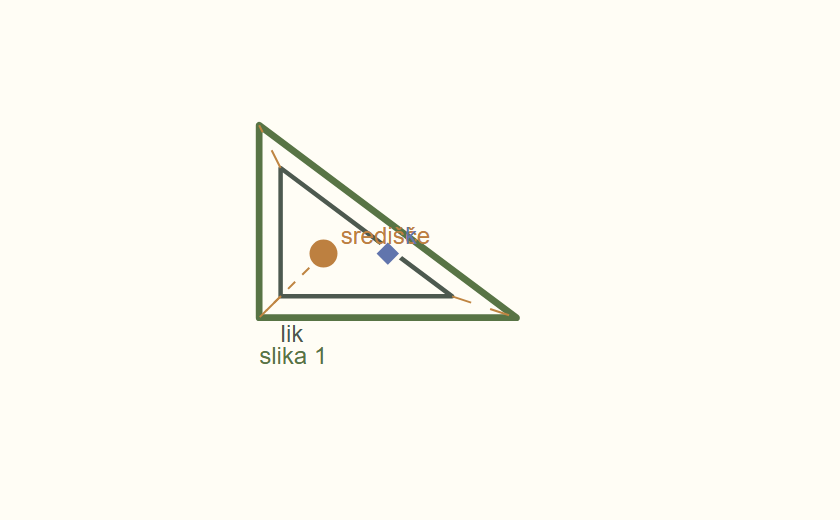
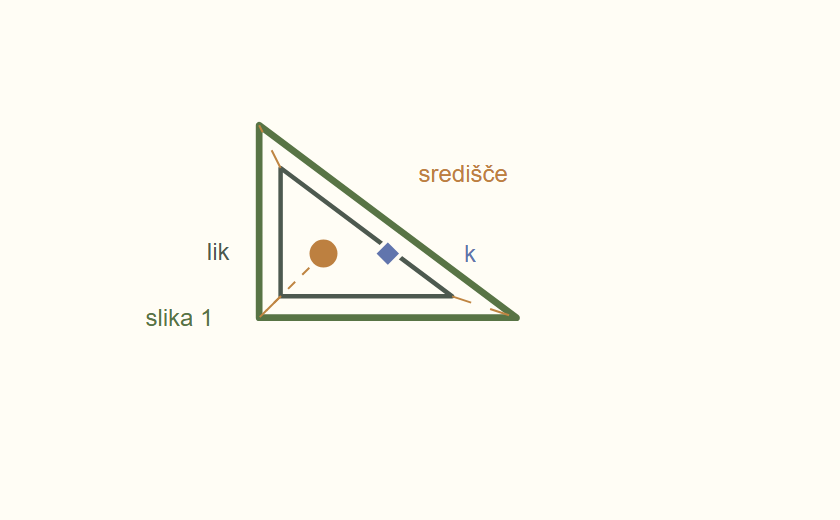
fix: isometry board texts stay clear of handles, images and each other
Captions, mirror, axis, centre and vector names and the handle names of the
isometry graph are placed by the shared bounded candidate search, with
alternative anchors along the mirrors; handles, markers, mirror lines and
curves are obstacles. The three isometries cards are recaptured.

Claude-Session: https://claude.ai/code/session_01UfEZWQEwZHrfX6P9MLA3xk

diff --git a/src/graphs/isometry/IsometryGraph.tsx b/src/graphs/isometry/IsometryGraph.tsx
@@ -28,6 +28,7 @@ import {Preset} from "../base/presets/Presets";
 import {isometryPresetCollection} from "./isometryPresetCollection";
 import type {IsometryClass} from "../../isometry/isometry2";
 import type {RosetteImage} from "../../isometry/rosette";
+import {placeLpLabels, sampleLine, type LabelItem, type PxBox} from "../legend/boardLabelPlacement";
 
 /** The scene state is the stored isometry state (ADR 0047 sections 1 to 3); everything else is derived from it. */
 export interface IsometryGraphState extends BaseGraphState, IsometryState {}
@@ -76,6 +77,8 @@ const pointText = (x: string, y: string): string => t("isometry_graph_point_form
 const ratPoint = (p: RationalPoint): string => pointText(rat(p.x), rat(p.y));
 const xyPoint = (x: number, y: number): string => pointText(dec(x), dec(y));
 const degrees = (radians: number): string => `${dec2((radians * 180) / Math.PI)}°`;
+/** The room a handle or marker takes beyond its size, in px, for the pixel placement of the board texts. */
+const MARKER_PAD_PX = 3;
 
 /** A line as text, for example `13 x = 25` or `6 x + 12 y = 66`. */
 function lineText(line: Line): string {
@@ -169,6 +172,9 @@ export class IsometryGraph extends BaseGraph<IsometryGraphState, IsometryState> 
     /** What the board was last drawn for; a sync that finds the same key redraws nothing but the handle positions. */
     private builtKey: string | undefined;
     private readonly status = new SettledReadout();
+    /** The board texts of the scene (see `labelBoxes`): what each says, the data points it may sit beside, and when it is shown. */
+    private captionList: Array<{id: string; text: () => string; anchors: () => ReadonlyArray<readonly [number, number]>; visible: () => boolean}> = [];
+    private layoutCache?: {key: string; state: Readonly<IsometryGraphState>; boxes: Record<string, PxBox>};
 
     override getInitialState(): IsometryGraphState {
         return {initialized: false, ...DEFAULT_ISOMETRY_STATE};
@@ -328,8 +334,59 @@ export class IsometryGraph extends BaseGraph<IsometryGraphState, IsometryState> 
         return d.mode === "mirrors" || d.mode === "classify" ? d.motion : undefined;
     }
 
+    /**
+     * The boxes (px from the board's top left corner, y down) of the board texts: each takes the free spot nearest to its anchor that clears the
+     * handles and markers, the drawn lines and curves and the texts placed before it (the bounded search of `placeLpLabels`).
+     */
+    private labelBoxes(): Record<string, PxBox> {
+        if (!this.hasBoard || !(this.board.canvasWidth > 0) || !(this.board.canvasHeight > 0)) return {};
+        const board = this.board;
+        const [left, top] = board.getBoundingBox();
+        const ux = Number.isFinite(board.unitX) && board.unitX > 0 ? board.unitX : 1;
+        const uy = Number.isFinite(board.unitY) && board.unitY > 0 ? board.unitY : 1;
+        const width = board.canvasWidth, height = board.canvasHeight;
+        const handles = [...this.handleMap.values()].map(h => `${h.X()},${h.Y()}`).join(";");
+        const key = [ux, uy, left, top, width, height, this.builtKey, this.objects.length, handles, currentLanguage()].join("|");
+        if (this.layoutCache?.key === key && this.layoutCache.state === this.state) return this.layoutCache.boxes;
+        const toPx = (x: number, y: number): readonly [number, number] => [(x - left) * ux, (top - y) * uy];
+        type Drawn = {elType: string; evalVisProp(name: string): unknown; dataX?: number[]; dataY?: number[]; updateDataArray?: () => void};
+        const shown = (this.objects as unknown as Drawn[]).filter(o => Boolean(o.evalVisProp("visible")));
+        const markers: Array<readonly [number, number, number]> = [];
+        const samples: Array<readonly [number, number]> = [];
+        for (const o of shown) {
+            if (o.elType === "point") {
+                const p = o as unknown as JXG.Point;
+                markers.push([...toPx(p.X(), p.Y()), Number(o.evalVisProp("size")) + MARKER_PAD_PX]);
+            } else if (o.elType === "curve") {
+                o.updateDataArray?.(); // a curve later in the list than the first text asking has not been updated yet
+                samples.push(...sampleLine(o.dataX ?? [], o.dataY ?? [], toPx, width, height, 2, 1500));
+            } else if (o.elType === "line" || o.elType === "segment" || o.elType === "arrow") {
+                const l = o as unknown as JXG.Line;
+                const [x0, y0, x1, y1] = [l.point1.X(), l.point1.Y(), l.point2.X(), l.point2.Y()];
+                const dx = x1 - x0, dy = y1 - y0, length = Math.hypot(dx, dy);
+                if (!(length > 0)) continue;
+                const reach = o.elType === "line" ? 60 / length : 1;
+                const from = o.elType === "line" ? -reach : 0;
+                samples.push(...sampleLine([x0 + dx * from, x0 + dx * reach], [y0 + dy * from, y0 + dy * reach], toPx, width, height, 2, 1500));
+            }
+        }
+        const items: LabelItem[] = [];
+        const font = board.unitX < 20 ? 12 : 15;
+        for (const c of this.captionList) {
+            if (!c.visible()) continue;
+            const text = c.text();
+            if (text === "") continue;
+            const [first, ...rest] = c.anchors().filter(a => Number.isFinite(a[0]) && Number.isFinite(a[1])).map(a => toPx(a[0], a[1]));
+            if (first) items.push({id: c.id, ax: first[0], ay: first[1], alts: rest, w: text.length * font * 0.55 + 8, h: font + 7});
+        }
+        const boxes = placeLpLabels(items, {width, height, markers, samples, strips: [], blocks: []});
+        this.layoutCache = {key, state: this.state, boxes};
+        return boxes;
+    }
+
     private buildScene(): void {
         this.disposeScene();
+        this.captionList = [];
         const board = this.board;
         const state = this.state;
         const mode = state.mode;
@@ -354,10 +411,25 @@ export class IsometryGraph extends BaseGraph<IsometryGraphState, IsometryState> 
             }));
         /** Captions shrink on a narrow board (few pixels per unit, read when the board is built) so they stay apart. */
         const captionFont = () => (board.unitX < 20 ? 12 : 15);
-        const caption = (text: string | (() => string), x: Coordinate, y: Coordinate, color: string, visible: Visible = true) =>
-            this.own(board.create("text", [x, y, text], {
-                strokeColor: color, fontSize: captionFont(), fixed: true, highlight: false, withLabel: false, visible,
+        type Anchors = () => ReadonlyArray<readonly [number, number]>;
+        /** A text sits at the centre of its placed box (see `labelBoxes`) beside the first of its anchors, or on it before the board has a size. */
+        const caption = (text: string | (() => string), anchors: Anchors, color: string, visible: Visible = true) => {
+            const id = `caption-${this.captionList.length}`;
+            const content = typeof text === "string" ? () => text : text;
+            this.captionList.push({id, text: content, anchors, visible: typeof visible === "function" ? visible : () => visible});
+            const place = (axis: 0 | 1) => () => {
+                const box = this.labelBoxes()[id];
+                if (!box) return anchors()[0]?.[axis] ?? 0;
+                const [left, top] = board.getBoundingBox();
+                return axis === 0 ? left + (box.x0 + box.x1) / 2 / board.unitX : top - (box.y0 + box.y1) / 2 / board.unitY;
+            };
+            return this.own(board.create("text", [place(0), place(1), content], {
+                strokeColor: color, fontSize: captionFont(), anchorX: "middle", anchorY: "middle", fixed: true, highlight: false, withLabel: false, visible,
             }));
+        };
+        const atPoint = (x: Coordinate, y: Coordinate): Anchors => () => [[typeof x === "function" ? x() : x, typeof y === "function" ? y() : y]];
+        /** The corners of a polygon, each a place a name of it may sit beside. */
+        const cornersOf = (read: () => readonly RationalPoint[] | undefined): Anchors => () => (read() ?? []).map(p => [p.x.toNumber(), p.y.toNumber()] as const);
         /** A curve whose data come from `data()`; NaN entries break it. */
         const curveOf = (data: () => Poly, color: string, width: number, dash: number, visible: Visible = true) => {
             const curve = this.own(board.create("curve", [[], []], {
@@ -381,10 +453,8 @@ export class IsometryGraph extends BaseGraph<IsometryGraphState, IsometryState> 
             this.handleMap.set(id, point);
             return point;
         };
-        const label = (name: () => string, id: HandleId, color: string, visible: Visible = true, lift: () => number = () => 0, shift: () => number = () => 0.4) =>
-            caption(name, () => this.handleTarget(id)[0] + shift(), () => this.handleTarget(id)[1] + 0.4 + lift(), color, visible);
-        /** A vertical gap of at least one caption line, in units: 0.9 on a wide board, more where a unit is few pixels (narrow boards). */
-        const lineGap = (units: number) => Math.max(0.9 * units, (captionFont() * 1.2 * units) / board.unitY);
+        const label = (name: () => string, id: HandleId, color: string, visible: Visible = true) =>
+            caption(name, () => [this.handleTarget(id)], color, visible);
         const numberAt = (read: () => number | undefined) => () => {
             const value = read();
             return value !== undefined && Number.isFinite(value) ? value : 0;
@@ -412,15 +482,11 @@ export class IsometryGraph extends BaseGraph<IsometryGraphState, IsometryState> 
             const colors = [GraphPalette.referenceCurve, GraphPalette.comparisonCurve, GraphPalette.primaryCurve] as const;
             for (let i = 0; i < count; i++) {
                 curveOf(poly(stepImage(i)), colors[i], i === count - 1 ? 3 : 2, i === count - 1 ? 0 : 2, ok);
-                caption(imageText(i + 1), numberAt(() => stepImage(i)()?.[0].x.toNumber()), numberAt(() => (stepImage(i)()?.[0].y.toNumber() ?? 0) - lineGap(1)),
-                    colors[i], ok);
+                caption(imageText(i + 1), cornersOf(stepImage(i)), colors[i], ok);
             }
-            caption(text("isometry_graph_cap_motif"), numberAt(() => {
+            caption(text("isometry_graph_cap_motif"), cornersOf(() => {
                 const m = this.motion();
-                return m?.status === "ok" ? m.motif[0].x.toNumber() : undefined;
-            }), numberAt(() => {
-                const m = this.motion();
-                return m?.status === "ok" ? m.motif[0].y.toNumber() - lineGap(1.6) : undefined;
+                return m?.status === "ok" ? m.motif : undefined;
             }), GraphPalette.label, ok);
             // The mirrors: lines through the owned handle points, hidden while the two points coincide.
             for (let i = 0; i < count; i++) {
@@ -431,8 +497,14 @@ export class IsometryGraph extends BaseGraph<IsometryGraphState, IsometryState> 
                     straightFirst: true, straightLast: true, visible: () => this.state.mirrors[i].p.x !== this.state.mirrors[i].q.x
                         || this.state.mirrors[i].p.y !== this.state.mirrors[i].q.y,
                 }));
-                // Mirrors often share a handle position (the defaults both start at the origin): stack their captions left of the handle so they do not overlap each other, the centre caption or the image captions.
-                label(() => t("isometry_graph_cap_mirror", {value0: String(i + 1)}), MIRROR_HANDLES[i][0], mirrorColors[i], true, () => lineGap(1) * i, () => -Math.max(3.4, (captionFont() * 4.3) / board.unitX));
+                // Mirrors often share a handle position (the defaults both start at the origin): the placer keeps their names apart.
+                // The name sits at the first handle, else at the second one or further along the mirror.
+                caption(() => t("isometry_graph_cap_mirror", {value0: String(i + 1)}), () => {
+                    const {p: a, q: b} = this.state.mirrors[i];
+                    const length = Math.hypot(b.x - a.x, b.y - a.y) || 1;
+                    const [ux, uy] = [(b.x - a.x) / length, (b.y - a.y) / length];
+                    return [[a.x, a.y], [b.x, b.y], ...[3, -3, 5, -5].map(k => [a.x + ux * k, a.y + uy * k] as const)];
+                }, mirrorColors[i], true);
             }
             // The composite's centre (rotation) or axis (reflection and glide).
             const classOf = (): IsometryClass | undefined => {
@@ -445,7 +517,10 @@ export class IsometryGraph extends BaseGraph<IsometryGraphState, IsometryState> 
             });
             const isRotation = () => classOf()?.kind === "rotation";
             marker(centreOf("x"), centreOf("y"), "cross", GraphPalette.constructionAccent, 6, isRotation);
-            caption(text("isometry_graph_cap_centre"), () => centreOf("x")() + 0.4, () => centreOf("y")() + 0.4, GraphPalette.constructionAccent, isRotation);
+            caption(text("isometry_graph_cap_centre"), () => {
+                const [x, y] = [centreOf("x")(), centreOf("y")()];
+                return [[x, y], [x - 1, y - 1], [x + 1, y - 1], [x - 1, y + 1], [x + 1, y + 1]];
+            }, GraphPalette.constructionAccent, isRotation);
             const axisLine = () => {
                 const c = classOf();
                 return c?.kind === "reflection" || c?.kind === "glide" ? c.axis : null;
@@ -456,8 +531,13 @@ export class IsometryGraph extends BaseGraph<IsometryGraphState, IsometryState> 
                 strokeColor: GraphPalette.constructionAccent, strokeWidth: 1, dash: 3, fixed: true, highlight: false, withLabel: false,
                 straightFirst: true, straightLast: true, visible: () => axisLine() !== null,
             }));
-            caption(text("isometry_graph_cap_axis"), () => anchorsOf(axisLine()).first[0] + 0.4, () => anchorsOf(axisLine()).first[1] + 0.4,
-                GraphPalette.constructionAccent, () => axisLine() !== null);
+            // The axis name may sit anywhere along the axis: the foot of the origin first, then further along it both ways.
+            caption(text("isometry_graph_cap_axis"), () => {
+                const {first, second} = anchorsOf(axisLine());
+                const length = Math.hypot(second[0] - first[0], second[1] - first[1]) || 1;
+                const [ux, uy] = [(second[0] - first[0]) / length, (second[1] - first[1]) / length];
+                return [0, 3, -3, 6, -6].map(k => [first[0] + ux * k, first[1] + uy * k] as const);
+            }, GraphPalette.constructionAccent, () => axisLine() !== null);
             // The glide's translation part, an arrow along the axis from the foot of the origin.
             const glideVector = (): readonly [number, number] | undefined => {
                 const c = classOf();
@@ -470,8 +550,12 @@ export class IsometryGraph extends BaseGraph<IsometryGraphState, IsometryState> 
             this.own(board.create("arrow", [arrowFrom, arrowTo], {
                 strokeColor: GraphPalette.primaryCurve, strokeWidth: 3, fixed: true, highlight: false, withLabel: false, visible: isGlide,
             }));
-            caption(text("isometry_graph_cap_vector"), () => anchorsOf(axisLine()).first[0] + (glideVector()?.[0] ?? 0) / 2 - 0.4,
-                () => anchorsOf(axisLine()).first[1] + (glideVector()?.[1] ?? 0) / 2 - 0.9, GraphPalette.primaryCurve, isGlide);
+            caption(text("isometry_graph_cap_vector"), () => {
+                const [vx, vy] = glideVector() ?? [0, 0];
+                const [x, y] = [anchorsOf(axisLine()).first[0] + vx / 2, anchorsOf(axisLine()).first[1] + vy / 2];
+                const length = Math.hypot(vx, vy) || 1;
+                return [[x, y], ...[1.5, -1.5, 3, -3].map(k => [x + (vx / length) * k, y + (vy / length) * k] as const)];
+            }, GraphPalette.primaryCurve, isGlide);
         };
 
         if (mode === "mirrors") {
@@ -497,14 +581,14 @@ export class IsometryGraph extends BaseGraph<IsometryGraphState, IsometryState> 
             handle("k", GraphPalette.comparisonCurve, "diamond");
             label(text("isometry_graph_cap_centre"), "centre", GraphPalette.controlPoint);
             label(text("isometry_graph_cap_k"), "k", GraphPalette.comparisonCurve);
-            caption(text("isometry_graph_cap_motif"), corner(0, "x", "motif"), () => corner(0, "y", "motif")() - 0.9, GraphPalette.label);
-            caption(imageText(1), corner(0, "x", "image"), () => corner(0, "y", "image")() - 0.9, GraphPalette.primaryCurve);
+            caption(text("isometry_graph_cap_motif"), cornersOf(() => sim()?.motif), GraphPalette.label);
+            caption(imageText(1), cornersOf(() => sim()?.image), GraphPalette.primaryCurve);
         } else if (mode === "rosette") {
             const rosetteOf = () => this.rosetteImages().all;
             curveOf(() => (this.state.rosetteMirrors ? rosetteMirrorPoly(this.state.rosetteN) : EMPTY_POLY), GraphPalette.constructionLevels[1], 1, 3,
                 () => this.state.rosetteMirrors);
             marker(0, 0, "cross", GraphPalette.constructionAccent, 6);
-            caption(text("isometry_graph_cap_centre"), 0.4, 0.4, GraphPalette.constructionAccent);
+            caption(text("isometry_graph_cap_centre"), atPoint(0, 0), GraphPalette.constructionAccent);
             // Two pools of markers: circles for direct images, diamonds for reflected ones; an image beyond the pool end is hidden.
             for (const reflected of [false, true] as const) {
                 for (let j = 0; j < ROSETTE_N_MAX; j++) {
@@ -514,7 +598,7 @@ export class IsometryGraph extends BaseGraph<IsometryGraphState, IsometryState> 
                 }
             }
             for (let i = 0; i < 2 * ROSETTE_N_MAX; i++) {
-                caption(imageText(i + 1), numberAt(() => rosetteOf()[i]?.x), () => numberAt(() => rosetteOf()[i]?.y)() + 0.5,
+                caption(imageText(i + 1), atPoint(numberAt(() => rosetteOf()[i]?.x), numberAt(() => rosetteOf()[i]?.y)),
                     GraphPalette.label, () => rosetteOf()[i] !== undefined);
             }
             handle("point", GraphPalette.controlPoint, "o");
@@ -532,15 +616,15 @@ export class IsometryGraph extends BaseGraph<IsometryGraphState, IsometryState> 
             const bracketA = hidden(0, -0.8);
             const bracketB = hidden(() => period(), -0.8);
             segment(bracketA, bracketB, GraphPalette.constructionAccent, 2, 0);
-            caption(() => t("isometry_graph_cap_period", {value0: String(period())}), () => period() / 2 - 1, -1.8, GraphPalette.constructionAccent);
+            caption(() => t("isometry_graph_cap_period", {value0: String(period())}), atPoint(() => period() / 2 - 1, -1.8), GraphPalette.constructionAccent);
             curveOf(() => mergedPoly((frieze()?.polygons ?? []).filter(p => p.element === 0 && p.period !== 0)), GraphPalette.referenceCurve, 2, 0);
             curveOf(() => mergedPoly((frieze()?.polygons ?? []).filter(p => p.element !== 0)), GraphPalette.comparisonCurve, 2, 0);
             curveOf(() => mergedPoly((frieze()?.polygons ?? []).filter(p => p.element === 0 && p.period === 0)), GraphPalette.primaryCurve, 3, 0);
-            caption(text("isometry_graph_cap_motif"), FRIEZE_MOTIF_TENTHS[0][0] / 10, FRIEZE_MOTIF_TENTHS[0][1] / 10 - 1.2, GraphPalette.primaryCurve);
+            caption(text("isometry_graph_cap_motif"), atPoint(FRIEZE_MOTIF_TENTHS[0][0] / 10, FRIEZE_MOTIF_TENTHS[0][1] / 10), GraphPalette.primaryCurve);
             caption(() => {
                 const d = frieze();
                 return d && d.status !== "reducesPeriod" ? t("isometry_graph_cap_frieze_type", {value0: d.type}) : "";
-            }, () => period() / 2 - 1, 3.4, GraphPalette.label);
+            }, atPoint(() => period() / 2 - 1, 3.4), GraphPalette.label);
         }
 
         for (const [id, point] of this.handleMap) this.wireDrag(id, point);

diff --git a/src/graphs/isometry/IsometryLabels.test.tsx b/src/graphs/isometry/IsometryLabels.test.tsx
@@ -1,0 +1,94 @@
+import React from 'react';
+import {act, render} from '@testing-library/react';
+import {MemoryRouter} from 'react-router-dom';
+import {GraphHost} from '../base/GraphHost';
+import {installBoardShims} from '../base/realGraphTestHarness';
+import {setLanguage} from '../../localization';
+import {sampleLine, type PxBox} from '../legend/boardLabelPlacement';
+import {CLASSIFY_EXAMPLES, DEFAULT_ISOMETRY_STATE, type IsometryState} from '../../isometry/isometryModel';
+import {IsometryGraph} from './IsometryGraph';
+
+beforeAll(installBoardShims);
+beforeEach(() => setLanguage('sl'));
+
+class Probe extends IsometryGraph {
+    liveBoard() { return this.board; }
+}
+
+type Shown = {
+    elType: string; evalVisProp(name: string): unknown; plaintext?: string; visProp: Record<string, unknown>;
+    dataX?: number[]; dataY?: number[]; X?: () => number; Y?: () => number;
+};
+const mirror = (px: number, py: number, qx: number, qy: number) => ({p: {x: px, y: py}, q: {x: qx, y: qy}});
+
+/** The opening scenes of the three example cards (two mirrors, classifying, dilation), the Demonstration default and a few more. */
+const SCENES: Record<string, Partial<IsometryState>> = {
+    twoMirrors: {mode: 'mirrors', mirrors: [mirror(0, 0, 1, 0), mirror(0, 0, 2, 1), DEFAULT_ISOMETRY_STATE.mirrors[2]]},
+    parallelMirrors: {mode: 'mirrors', mirrors: [mirror(0, 0, 0, 1), mirror(3, 0, 3, 1), DEFAULT_ISOMETRY_STATE.mirrors[2]]},
+    classifyReflection: {mode: 'classify', motionLength: 1, mirrors: [mirror(1, 0, 2, 1), DEFAULT_ISOMETRY_STATE.mirrors[1], DEFAULT_ISOMETRY_STATE.mirrors[2]]},
+    classifyRotation: {mode: 'classify', ...CLASSIFY_EXAMPLES.rotation},
+    classifyGlide: {mode: 'classify', ...CLASSIFY_EXAMPLES.glide},
+    dilation: {mode: 'similarity'},
+    dilationNegative: {mode: 'similarity', dilationK: -0.5},
+    rosette: {mode: 'rosette'},
+    frieze: {mode: 'frieze'},
+};
+
+const overlaps = (a: PxBox, b: PxBox) => a.x0 < b.x1 && a.x1 > b.x0 && a.y0 < b.y1 && a.y1 > b.y0;
+
+function mountScene(scene: Partial<IsometryState>) {
+    const graph = new Probe();
+    render(<MemoryRouter><GraphHost create={() => graph}/></MemoryRouter>);
+    act(() => { graph.setState(scene); });
+    act(() => { graph.liveBoard().update(); });
+    act(() => { graph.liveBoard().update(); });
+    return graph;
+}
+
+/** What the board draws, in px from the top left corner (y down): the shown texts with their estimated boxes, the handles and markers, samples of the strokes. */
+function drawn(graph: Probe) {
+    const board = graph.liveBoard();
+    const [left, top] = board.getBoundingBox();
+    const toPx = (x: number, y: number): readonly [number, number] => [(x - left) * board.unitX, (top - y) * board.unitY];
+    const width = board.canvasWidth, height = board.canvasHeight;
+    const shown = (board.objectsList as unknown as Shown[]).filter(o => Boolean(o.evalVisProp('visible')));
+    const labels = shown.filter(o => o.elType === 'text').map(o => {
+        const text = o as unknown as JXG.Text & {plaintext?: string};
+        const [cx, cy] = toPx(text.X(), text.Y());
+        const w = (text.plaintext ?? '').length * 7 + 4;
+        return {text: text.plaintext ?? '', box: {x0: cx - w / 2, y0: cy - 9, x1: cx + w / 2, y1: cy + 9} as PxBox};
+    }).filter(l => l.text !== '' && !/^[-−\d.,]+$/.test(l.text)); // the axis tick numbers are not the graph's captions
+    const markers = shown.filter(o => o.elType === 'point').map(o => toPx(o.X!(), o.Y!()));
+    const samples = shown.flatMap(o => {
+        if (o.elType === 'curve') return sampleLine(o.dataX ?? [], o.dataY ?? [], toPx, width, height, 2, 2000);
+        if (o.elType !== 'line' && o.elType !== 'segment') return [];
+        const l = o as unknown as JXG.Line;
+        const [x0, y0, x1, y1] = [l.point1.X(), l.point1.Y(), l.point2.X(), l.point2.Y()];
+        const dx = x1 - x0, dy = y1 - y0, length = Math.hypot(dx, dy) || 1;
+        const reach = o.elType === 'line' ? 60 / length : 1;
+        const from = o.elType === 'line' ? -reach : 0;
+        return sampleLine([x0 + dx * from, x0 + dx * reach], [y0 + dy * from, y0 + dy * reach], toPx, width, height, 2, 2000);
+    });
+    return {labels, markers, samples};
+}
+
+describe('IsometryGraph board text placement', () => {
+    for (const [name, scene] of Object.entries(SCENES)) {
+        it(`${name}: every text is clear of the handles, of the drawn lines and of the other texts`, () => {
+            const {labels, markers, samples} = drawn(mountScene(scene));
+            expect(labels.length).toBeGreaterThan(0);
+            for (const label of labels) {
+                const {box} = label;
+                for (const [mx, my] of markers) {
+                    expect(mx + 6 > box.x0 && mx - 6 < box.x1 && my + 6 > box.y0 && my - 6 < box.y1, `"${label.text}" lies on a marker`).toBe(false);
+                }
+                // A text may cross a rosette or frieze figure only when the figure has no free room; the card scenes must be clear.
+                if (name !== 'rosette' && name !== 'frieze') {
+                    const hit = samples.find(([x, y]) => x >= box.x0 + 2 && x <= box.x1 - 2 && y >= box.y0 + 2 && y <= box.y1 - 2); // the box is an estimate of the text, so its rim is not judged
+                    expect(hit, `"${label.text}" lies on a drawn line at ${hit} (box ${JSON.stringify(box)})`).toBeUndefined();
+                }
+            }
+            labels.forEach((a, i) => labels.slice(i + 1).forEach(b => expect(overlaps(a.box, b.box), `"${a.text}" and "${b.text}" overlap`).toBe(false)));
+        });
+    }
+});

diff --git a/src/learning/chapter/guidedExamplePreviews.ts b/src/learning/chapter/guidedExamplePreviews.ts
@@ -52,7 +52,7 @@ const patchImageUrls = import.meta.glob<string>('/src/images/learning/examples/p
     import: 'default',
 });
 
-/** Captured images in one subdirectory per chapter-owned chapter (the chapter id, named in `chapterFamilies` of the capture script, one PNG per example id plus its manifest, written by the capture script (recaptured after board text layout passes, the analytic-lines one too), each chapter folder, the level-sets and solids ones too, are read here once its images exist); the patches subdirectory has its own lookup below. */
+/** Captured images in one subdirectory per chapter-owned chapter (the chapter id, named in `chapterFamilies` of the capture script, one PNG per example id plus its manifest, written by the capture script (recaptured after board text layout passes, the analytic-lines and isometries ones too), each chapter folder, the level-sets and solids ones too, are read here once its images exist); the patches subdirectory has its own lookup below. */
 const chapterImageUrls = import.meta.glob<string>('/src/images/learning/examples/*/*.png', {
     eager: true,
     query: '?url',

diff --git a/docs/reviews/feature-streams/families-prep/notes/f5-isometries.md b/docs/reviews/feature-streams/families-prep/notes/f5-isometries.md
@@ -6,3 +6,9 @@
 - Frames viewed: two-mirrors horizontal grey and blue dashed mirrors crossing at the orange centre cross, motif above, grey dashed image below, blue image upper left; classifying one oblique mirror with orange axis on it, motif and thick grey image overlapping, slika 1 label touches the diamond; dilation small dark triangle inside larger green one with dashed rays, centre circle and blue ratio diamond, label središče touches the diamond.
 - Alt text uses plain words and quotes the Slovenian graph labels; none states a first-step answer.
 - Preview server on 4519 stopped; port closed. Logs: `.command-logs/f5-cards/isometries/`.
+
+## Label pass (handler 20)
+
+- Every caption of `IsometryGraph.tsx` (mirror, image, motif, centre, axis, vector, ratio, rosette, frieze names) is placed by `placeLpLabels` (`labelBoxes`, cached per state, handles and 1 px layout key): the anchors are the handle, the polygon corners or points along the mirror or axis; the handles, markers, mirror lines, axis and curves are obstacles, and the handle names are placed like the other texts. Hidden-text and tick numbers are not placed.
+- Cards recaptured (two-mirrors, classifying, dilation): "slika 1", "središče", "lik" and "os" no longer touch a handle, a line or each other. Remaining: "središče" sits some 45-150 px from its marker where the figure leaves no room beside it (colour ties it); on the 390 px classify opening "lik" still crosses the overlapping image triangle.
+- Test `IsometryLabels.test.tsx` (nine scenes): red before (all nine, e.g. "slika 1" on a line, "lik" on a marker), green after. Logs `.command-logs/label-pass/isometries/`.
